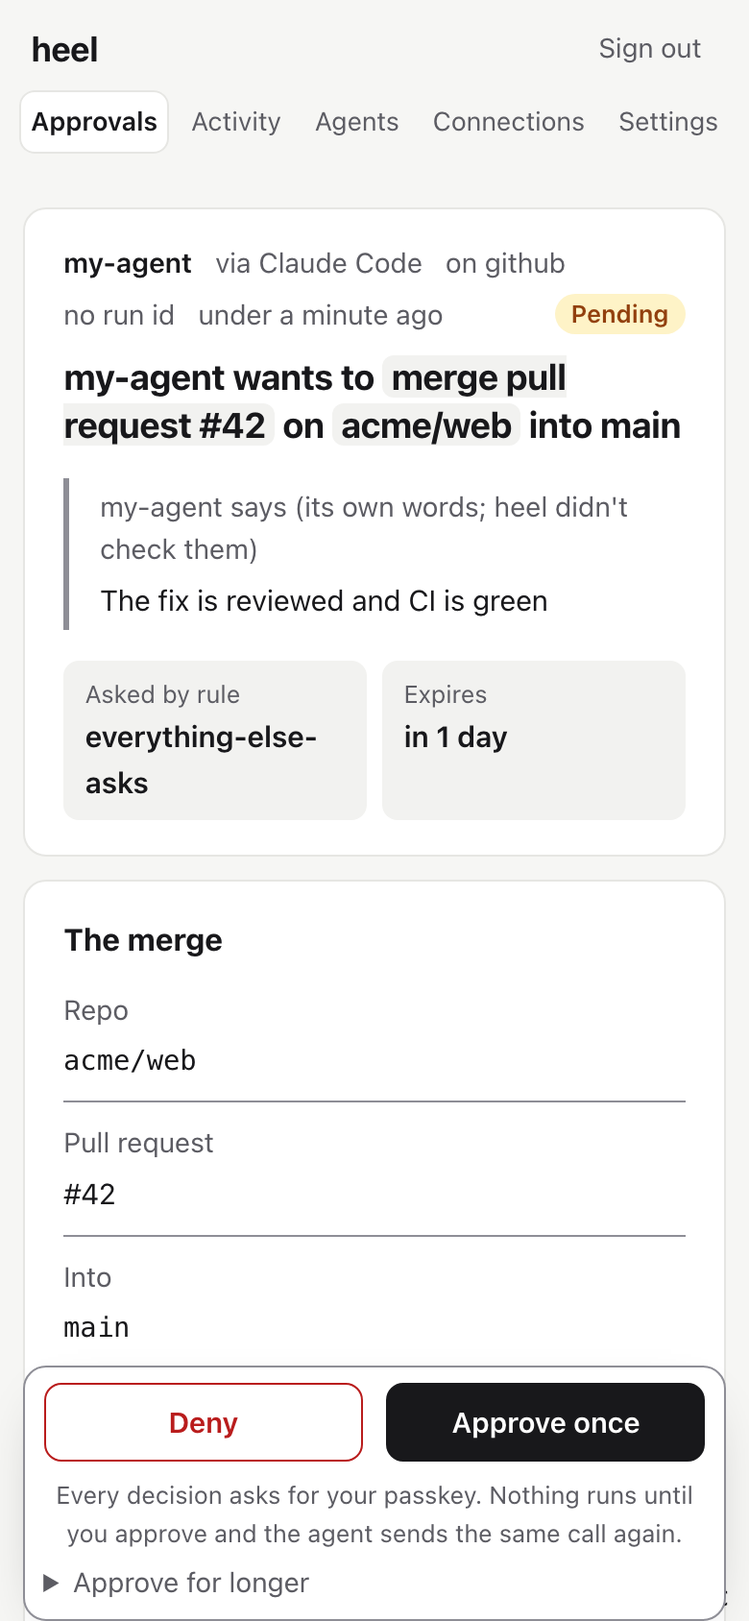
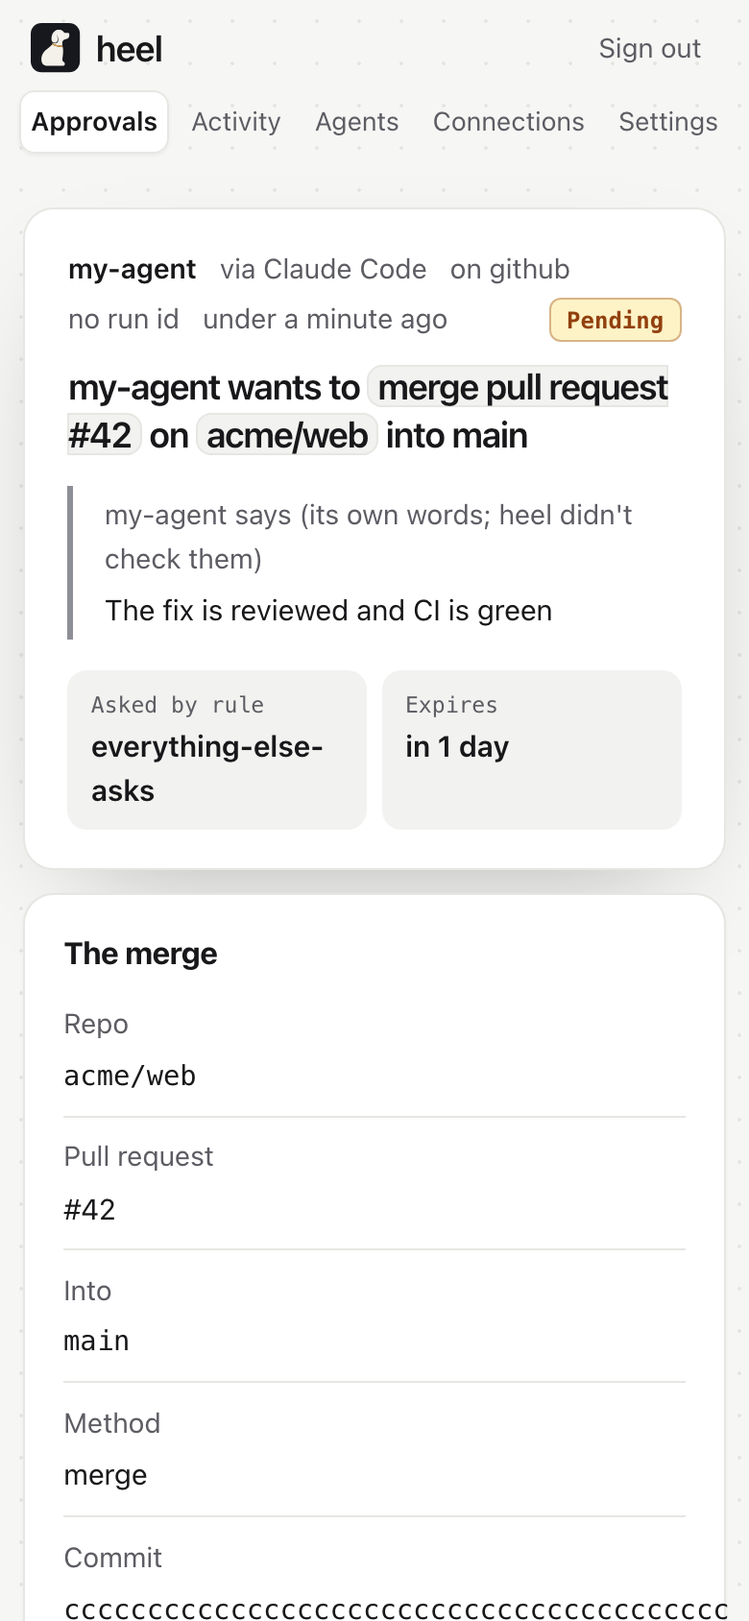
feat: heel's pages look like useheel.dev, and approve and deny never cover the page (#169)
* feat: heel's pages look like useheel.dev, and approve and deny never cover the page

Every page of the human plane takes the site's look: the dot grid behind
it, the logo beside the wordmark, pill buttons, status as tags in mono
with a tinted edge, softer cards and quieter dividers. Sign-in uses the
site's dog, written in the word heel, faint behind the wordmark.

The approve/deny bar was pinned to the bottom of the screen and sat on
top of the email or merge being decided. It's now part of the page,
right after what will run and before the details.

The docs screenshots are regenerated from the new pages, and the
README's approval image is two of them in phone frames, light and dark.

* docs: the README follows the reader's theme everywhere, and its phones look like phones

The video gets a dark version, switched with a picture element like the banner. The approval phones get a status bar, camera cutout and home bar, so the page sits inside the screen instead of under its corners, and the dark image shows heel's dark theme: docs:screenshots now also captures the two approval screens in dark.

diff --git a/src/web/ui/theme.ts b/src/web/ui/theme.ts
@@ -36,6 +36,8 @@ const LIGHT = {
   "add-bg": "#e3f4e7",
   "remove-bg": "#fbe5e3",
   focus: "#0b57d0",
+  /** The dot grid behind every page, as on useheel.dev. */
+  dot: "rgb(0 0 0 / .07)",
 } as const;
 
 /** Every theme defines every colour the stylesheet uses. */
@@ -66,6 +68,7 @@ const DARK: Palette = {
   "add-bg": "#13321c",
   "remove-bg": "#3d1714",
   focus: "#ffd166",
+  dot: "rgb(255 255 255 / .06)",
 };
 
 function variables(palette: Palette): string {
@@ -77,18 +80,19 @@ function variables(palette: Palette): string {
 const RULES = `
 *,*::before,*::after{box-sizing:border-box}
 html{color-scheme:light dark}
-body{margin:0;background:var(--page);color:var(--text);font:15px/1.55 Inter,ui-sans-serif,system-ui,-apple-system,"Segoe UI",Roboto,sans-serif;-webkit-font-smoothing:antialiased}
+body{margin:0;background-color:var(--page);background-image:radial-gradient(circle,var(--dot) 1px,transparent 1px);background-size:22px 22px;color:var(--text);font:15px/1.55 Inter,ui-sans-serif,system-ui,-apple-system,"Segoe UI",Roboto,sans-serif;-webkit-font-smoothing:antialiased}
 a{color:var(--link);text-underline-offset:.2em}
 :focus-visible{outline:3px solid var(--focus);outline-offset:2px}
 .skip{position:absolute;left:-9999px;top:0;padding:.5rem 1rem;background:var(--bg)}
 .skip:focus{left:1rem;top:1rem;z-index:10}
-.site{display:flex;flex-wrap:wrap;gap:.75rem 2rem;align-items:center;max-width:72rem;margin:0 auto;padding:1rem 1.5rem .25rem}
-.site .brand{font-weight:700;font-size:1.1rem;letter-spacing:-.01em;color:var(--text);text-decoration:none}
+.site{display:flex;flex-wrap:wrap;gap:.75rem 2rem;align-items:center;max-width:72rem;margin:0 auto;padding:.9rem 1.5rem}
+.site .brand{display:inline-flex;align-items:center;gap:.5rem;font-weight:600;font-size:1.15rem;letter-spacing:-.02em;color:var(--text);text-decoration:none}
+.site .brand svg{width:1.6rem;height:1.6rem;flex:none}
 .site nav{max-width:100%}
 .site nav ul{display:flex;flex-wrap:wrap;gap:.25rem 1rem;list-style:none;margin:0;padding:0}
 .site nav a{text-decoration:none;padding:.3rem .55rem;border-radius:8px;white-space:nowrap;display:inline-block;color:var(--muted);font-size:.93rem}
 .site nav a:hover{color:var(--text);background:var(--surface)}
-.site nav a[aria-current="page"]{color:var(--text);font-weight:600;background:var(--bg);box-shadow:inset 0 0 0 1px var(--line)}
+.site nav a[aria-current="page"]{color:var(--text);font-weight:600;background:var(--bg);box-shadow:inset 0 0 0 1px var(--line),0 1px 2px rgb(0 0 0 / .05)}
 .site .account{margin-left:auto;display:flex;align-items:center;gap:.75rem}
 .site .who{color:var(--muted);font-size:.88rem}
 .site .sign-out{font:inherit;font-size:.88rem;color:var(--muted);background:none;border:0;padding:.3rem .55rem;border-radius:8px;cursor:pointer}
@@ -98,25 +102,25 @@ a{color:var(--link);text-underline-offset:.2em}
 .subnav a{display:inline-block;padding:.3rem .7rem;border-radius:7px;color:var(--muted);text-decoration:none;font-size:.9rem;white-space:nowrap}
 .subnav a[aria-current="page"]{background:var(--bg);color:var(--text);font-weight:600;box-shadow:0 1px 2px rgb(0 0 0 / .08)}
 main{max-width:72rem;margin:0 auto;padding:1.5rem}
-h1{font-size:1.55rem;line-height:1.3;letter-spacing:-.015em;margin:0 0 .5rem}
-h2{font-size:1.2rem;margin:1.5rem 0 .5rem}
+h1{font-size:1.85rem;line-height:1.2;letter-spacing:-.04em;font-weight:600;margin:0 0 .5rem}
+h2{font-size:1.2rem;letter-spacing:-.02em;margin:1.5rem 0 .5rem}
 h3{font-size:1rem;margin:1rem 0 .5rem}
 p{margin:.5rem 0}
 .muted{color:var(--muted)}
 .banner{padding:.7rem 1.5rem;background:var(--banner-bg);color:var(--banner-text);font-weight:600;text-align:center}
-.notice{border:1px solid var(--line);padding:.75rem 1rem;margin:1rem 0;background:var(--bg);border-radius:10px}
+.notice{border:1px solid var(--line);padding:.75rem 1rem;margin:1rem 0;background:var(--bg);border-radius:14px}
 .notice[data-tone="error"]{background:var(--danger-bg);border-color:transparent}
 .notice[data-tone="warn"]{background:var(--warn-bg);border-color:transparent}
 .notice[data-tone="ok"]{background:var(--ok-bg);border-color:transparent}
 .notice[data-tone="info"]{background:var(--info-bg);border-color:transparent}
 .notice > :first-child{margin-top:0}
 .notice > :last-child{margin-bottom:0}
-.card{border:1px solid var(--line);border-radius:12px;padding:1.1rem 1.25rem;margin:1rem 0;background:var(--bg)}
-.badge{display:inline-block;padding:.05rem .55rem;border-radius:999px;font-size:.8rem;font-weight:600;white-space:nowrap;background:var(--surface)}
-.badge[data-tone="ok"]{color:var(--ok);background:var(--ok-bg)}
-.badge[data-tone="error"]{color:var(--danger);background:var(--danger-bg)}
-.badge[data-tone="warn"]{color:var(--warn);background:var(--warn-bg)}
-.badge[data-tone="info"]{color:var(--info);background:var(--info-bg)}
+.card{border:1px solid var(--line);border-radius:16px;padding:1.1rem 1.25rem;margin:1rem 0;background:var(--bg);box-shadow:0 1px 2px rgb(0 0 0 / .04)}
+.badge{display:inline-block;padding:.1rem .5rem;border-radius:6px;border:1px solid var(--line);font:600 .75rem/1.5 ui-monospace,"Geist Mono",SFMono-Regular,Menlo,Consolas,monospace;white-space:nowrap;background:var(--surface)}
+.badge[data-tone="ok"]{color:var(--ok);background:var(--ok-bg);border-color:color-mix(in srgb,var(--ok) 35%,transparent)}
+.badge[data-tone="error"]{color:var(--danger);background:var(--danger-bg);border-color:color-mix(in srgb,var(--danger) 35%,transparent)}
+.badge[data-tone="warn"]{color:var(--warn);background:var(--warn-bg);border-color:color-mix(in srgb,var(--warn) 35%,transparent)}
+.badge[data-tone="info"]{color:var(--info);background:var(--info-bg);border-color:color-mix(in srgb,var(--info) 35%,transparent)}
 .badge[data-tone="muted"]{color:var(--muted)}
 dl.facts{display:grid;grid-template-columns:minmax(8rem,max-content) 1fr;gap:.35rem 1.5rem;margin:0}
 dl.facts dt{color:var(--muted);font-weight:600}
@@ -127,21 +131,21 @@ figure.reason blockquote{margin:.25rem 0 0;overflow-wrap:anywhere}
 ul.hints{list-style:none;padding:0;margin:.5rem 0 0;display:grid;gap:.45rem}
 ul.hints li{display:flex;align-items:baseline;gap:.6rem}
 pre{overflow-x:auto;max-width:100%}
-code,pre,.mono{font-family:ui-monospace,SFMono-Regular,Menlo,Consolas,monospace;font-size:.9rem}
-pre.args,pre.body{margin:0;padding:1rem;background:var(--surface);border:1px solid var(--border);border-radius:4px;white-space:pre-wrap;overflow-wrap:anywhere;word-break:break-word}
-.table-scroll{overflow-x:auto;max-width:100%;border:1px solid var(--line);border-radius:12px;margin:.75rem 0;background:linear-gradient(to right,var(--bg) 30%,transparent) left/2rem 100% no-repeat local,linear-gradient(to left,var(--bg) 30%,transparent) right/2rem 100% no-repeat local,radial-gradient(farthest-side at 0 50%,rgb(0 0 0 / .18),transparent) left/.75rem 100% no-repeat scroll,radial-gradient(farthest-side at 100% 50%,rgb(0 0 0 / .18),transparent) right/.75rem 100% no-repeat scroll}
+code,pre,.mono{font-family:ui-monospace,"Geist Mono",SFMono-Regular,Menlo,Consolas,monospace;font-size:.9rem}
+pre.args,pre.body{margin:0;padding:1rem;background:var(--surface);border:1px solid var(--line);border-radius:10px;white-space:pre-wrap;overflow-wrap:anywhere;word-break:break-word}
+.table-scroll{overflow-x:auto;max-width:100%;border:1px solid var(--line);border-radius:14px;margin:.75rem 0;background:linear-gradient(to right,var(--bg) 30%,transparent) left/2rem 100% no-repeat local,linear-gradient(to left,var(--bg) 30%,transparent) right/2rem 100% no-repeat local,radial-gradient(farthest-side at 0 50%,rgb(0 0 0 / .18),transparent) left/.75rem 100% no-repeat scroll,radial-gradient(farthest-side at 100% 50%,rgb(0 0 0 / .18),transparent) right/.75rem 100% no-repeat scroll}
 table.data{width:100%;border-collapse:collapse;margin:0;background:var(--bg)}
 table.data caption{text-align:left;font-weight:600;padding:.6rem .85rem;color:var(--muted);font-size:.85rem;background:var(--bg)}
 table.data th,table.data td{text-align:left;vertical-align:top;padding:.6rem .85rem;border-bottom:1px solid var(--line);overflow-wrap:break-word}
 table.data tbody tr:last-child > *{border-bottom:0}
 table.data thead th{border-bottom:1px solid var(--line);color:var(--muted);font-size:.8rem;font-weight:600;letter-spacing:.02em;background:var(--surface)}
-.btn{font:inherit;font-size:.93rem;font-weight:600;white-space:nowrap;padding:.5rem 1rem;border-radius:9px;border:1px solid var(--accent);cursor:pointer;min-height:2.5rem}
+.btn{font:inherit;font-size:.93rem;font-weight:600;white-space:nowrap;padding:.5rem 1.15rem;border-radius:999px;border:1px solid var(--accent);cursor:pointer;min-height:2.5rem}
 .btn-primary{background:var(--accent);color:var(--accent-text)}
-.btn-secondary{background:var(--bg);color:var(--text);border-color:var(--border)}
+.btn-secondary{background:var(--bg);color:var(--text);border-color:var(--border);box-shadow:0 1px 2px rgb(0 0 0 / .06)}
 .btn-danger{background:var(--bg);border-color:var(--danger);color:var(--danger)}
 .btn:disabled{cursor:not-allowed;opacity:.55}
 a.btn{display:inline-block;text-decoration:none}
-form.filters{display:flex;flex-wrap:wrap;gap:.5rem .75rem;align-items:center;margin:1rem 0;padding:.75rem;background:var(--bg);border:1px solid var(--line);border-radius:12px}
+form.filters{display:flex;flex-wrap:wrap;gap:.5rem .75rem;align-items:center;margin:1rem 0;padding:.75rem;background:var(--bg);border:1px solid var(--line);border-radius:16px}
 form.filters label{color:var(--muted);font-size:.88rem}
 .actions{display:flex;flex-wrap:wrap;gap:.75rem;align-items:center;margin:1rem 0}
 fieldset{border:1px solid var(--line);border-radius:10px;padding:.75rem 1rem;margin:1rem 0}
@@ -156,47 +160,45 @@ textarea{width:100%;min-height:5rem}
 .paste-form .btn{justify-self:start}
 .steps{padding-left:1.25rem}
 .steps > li{margin:0 0 1.25rem}
-.diff{margin:0;padding:0;list-style:none;border:1px solid var(--border);border-radius:4px;overflow:hidden}
+.diff{margin:0;padding:0;list-style:none;border:1px solid var(--line);border-radius:10px;overflow:hidden}
 .diff li{padding:0 .75rem;white-space:pre-wrap;overflow-wrap:anywhere;font-family:ui-monospace,SFMono-Regular,Menlo,Consolas,monospace;font-size:.9rem}
 .diff li[data-op="add"]{background:var(--add-bg)}
 .diff li[data-op="remove"]{background:var(--remove-bg)}
 .diff .sign{display:inline-block;width:1.25rem;font-weight:700}
-body:has(.ap){background:var(--page)}
 .ap{max-width:44rem;margin:0 auto}
-.ap .card{background:var(--bg);border-radius:12px;margin:.75rem 0}
-.ap-head{padding:1.1rem 1.25rem}
-.ap-meta{display:flex;flex-wrap:wrap;align-items:center;gap:.25rem .75rem;font-size:.9rem}
+.ap .card{background:var(--bg);border-radius:16px;margin:.75rem 0}
+.ap-head{padding:1.25rem 1.4rem;box-shadow:0 24px 60px -32px rgb(0 0 0 / .35)}
+.ap-meta{display:flex;flex-wrap:wrap;align-items:center;gap:.25rem .75rem;font-size:.9rem;color:var(--muted)}
 .ap-meta .badge{margin-left:auto}
-.ap-agent{font-weight:600}
-.ap-title{font-size:1.35rem;line-height:1.35;margin:.6rem 0 0;letter-spacing:-.01em;overflow-wrap:anywhere}
-.ap-title mark{background:var(--surface);color:inherit;border-radius:6px;padding:0 .3rem}
+.ap-agent{font-weight:600;color:var(--text)}
+.ap-title{font-size:1.45rem;line-height:1.35;margin:.7rem 0 0;letter-spacing:-.03em;font-weight:600;overflow-wrap:anywhere}
+.ap-title mark{background:var(--surface);color:inherit;border-radius:8px;padding:0 .35rem;box-shadow:inset 0 0 0 1px var(--line)}
 .ap .reason{margin:.9rem 0 0}
 .ap-facts{display:grid;grid-template-columns:repeat(auto-fit,minmax(9rem,1fr));gap:.5rem;list-style:none;margin:1rem 0 0;padding:0}
-.ap-fact{background:var(--surface);border-radius:8px;padding:.5rem .7rem;display:flex;flex-direction:column;min-width:0}
-.ap-fact span{color:var(--muted);font-size:.8rem}
+.ap-fact{background:var(--surface);border-radius:10px;padding:.55rem .75rem;display:flex;flex-direction:column;min-width:0}
+.ap-fact span{color:var(--muted);font:.72rem/1.6 ui-monospace,"Geist Mono",SFMono-Regular,Menlo,Consolas,monospace}
 .ap-fact strong{font-weight:600;font-size:.95rem;overflow-wrap:anywhere}
 .ap-card-head{display:flex;justify-content:space-between;align-items:baseline;gap:1rem;margin-bottom:.25rem}
 .ap-card-head h2{font-size:1rem;margin:0}
-.ap-card-head .muted{font-size:.85rem}
-.ap-row{display:grid;grid-template-columns:minmax(5.5rem,max-content) minmax(0,1fr);gap:.75rem;padding:.6rem 0;border-top:1px solid var(--border);align-items:start}
+.ap-card-head .muted{font:.75rem ui-monospace,"Geist Mono",SFMono-Regular,Menlo,Consolas,monospace}
+.ap-row{display:grid;grid-template-columns:minmax(5.5rem,max-content) minmax(0,1fr);gap:.75rem;padding:.6rem 0;border-top:1px solid var(--line);align-items:start}
 .ap-card-head + .ap-row{border-top:0}
 .ap-key{color:var(--muted);font-size:.9rem;overflow-wrap:anywhere}
 .ap-row pre.body{max-height:16rem;overflow:auto}
 .ap-domains,.ap-addresses{list-style:none;margin:0;padding:0;display:grid;gap:.35rem}
 .ap-addresses{margin-top:.4rem;font-size:.9rem}
-.ap-chip{display:inline-block;background:var(--surface);border-radius:6px;padding:0 .45rem;font-family:ui-monospace,SFMono-Regular,Menlo,Consolas,monospace;font-size:.9rem;overflow-wrap:anywhere}
+.ap-chip{display:inline-block;background:var(--surface);border-radius:6px;padding:0 .45rem;font-family:ui-monospace,"Geist Mono",SFMono-Regular,Menlo,Consolas,monospace;font-size:.9rem;overflow-wrap:anywhere}
 .ap-chip.is-outside{box-shadow:inset 0 0 0 1px var(--warn)}
 .ap-outside{color:var(--warn);font-size:.8rem;font-weight:600}
 .ap-fold summary,.ap-details summary,.ap-more summary{cursor:pointer}
-.ap-details details + details{border-top:1px solid var(--border);margin-top:.75rem;padding-top:.75rem}
+.ap-details details + details{border-top:1px solid var(--line);margin-top:.75rem;padding-top:.75rem}
 .ap-details summary{font-weight:600}
 .ap-details dl.facts{margin-top:.75rem}
 .ap-details pre.args{margin-top:.5rem}
-.ap-decide{position:sticky;bottom:0;margin:.75rem 0 1rem;padding:.75rem;background:var(--bg);border:1px solid var(--border);border-radius:12px;box-shadow:0 10px 30px -18px rgb(0 0 0 / .45)}
-.ap-decide:has(.ap-more[open]){position:static}
+.ap-decide{margin:.75rem 0;padding:.75rem;background:var(--bg);border:1px solid var(--line);border-radius:16px;box-shadow:0 1px 2px rgb(0 0 0 / .04)}
 .ap-bar{display:flex;flex-wrap:wrap;align-items:center;gap:.5rem .75rem}
 .ap-bar [data-heel-ceremony="deny"]{order:-1;background:transparent;color:var(--danger)}
-.ap .btn{border-radius:9px}
+.ap .btn{border-radius:999px}
 .ap-bar [data-heel-ceremony="approve-once"]{order:2}
 .ap-note{flex:1;margin:0;color:var(--muted);font-size:.85rem;text-align:center;min-width:10rem}
 .ap-more{margin-top:.5rem}
@@ -228,8 +230,8 @@ body:has(.ap){background:var(--page)}
 .req-title{font-size:1.1rem;line-height:1.4;margin:.5rem 0 0;font-weight:600;overflow-wrap:anywhere}
 .req-title a{color:var(--text);text-decoration:none}
 .req-title a:hover{text-decoration:underline}
-.req-title mark{background:var(--surface);color:inherit;border-radius:6px;padding:0 .3rem}
-.req[data-status="pending"]{border-color:var(--border)}
+.req-title mark{background:var(--surface);color:inherit;border-radius:8px;padding:0 .35rem;box-shadow:inset 0 0 0 1px var(--line)}
+.req[data-status="pending"]{border-color:var(--line)}
 .req-reason{margin:.5rem 0 0;padding-left:.75rem;border-left:2px solid var(--line)}
 .req-foot{margin:.6rem 0 0;font-size:.85rem}
 .req-count{margin:0}
@@ -271,13 +273,10 @@ body:has(.ap){background:var(--page)}
 @media (max-width:22rem){.site nav ul{margin:0 -.25rem}.site nav a{font-size:.78rem;padding:.35rem .25rem}}
 .story{border-top:4px solid var(--border);margin-top:2rem;padding-top:1rem}
 .visually-hidden{position:absolute;width:1px;height:1px;margin:-1px;padding:0;overflow:hidden;clip:rect(0 0 0 0);white-space:nowrap;border:0}
-body:has(.auth){background-color:var(--page);background-image:radial-gradient(circle,rgb(0 0 0 / .07) 1px,transparent 1px);background-size:22px 22px}
-:root[data-theme="dark"] body:has(.auth){background-image:radial-gradient(circle,rgb(255 255 255 / .06) 1px,transparent 1px)}
-@media (prefers-color-scheme: dark){:root:not([data-theme="light"]) body:has(.auth){background-image:radial-gradient(circle,rgb(255 255 255 / .06) 1px,transparent 1px)}}
 main:has(.auth){max-width:none;padding:0}
-.auth{position:relative;max-width:1100px;margin:0 auto;padding:4rem 1.25rem 3rem;display:flex;flex-direction:column;align-items:center;text-align:center;min-height:100vh}
-.auth-dog{margin:0;text-align:left;font-size:.75rem;line-height:1.25;color:var(--muted);white-space:pre;overflow:visible;background:none;border:0;padding:0}
-.auth-word{margin:1rem 0 0;font-size:clamp(3.5rem,11vw,5.5rem);line-height:1;font-weight:600;letter-spacing:-.06em}
+.auth{position:relative;isolation:isolate;max-width:1100px;margin:0 auto;padding:6rem 1.25rem 3rem;display:flex;flex-direction:column;align-items:center;text-align:center;min-height:100vh}
+.auth-dog{position:absolute;top:2rem;left:50%;z-index:-1;transform:translateX(calc(-50% - 2.6ch + 2px));margin:0;text-align:left;font-size:13px;line-height:1;color:color-mix(in srgb,var(--text) 7%,transparent);white-space:pre;overflow:visible;background:none;border:0;padding:0;pointer-events:none;user-select:none;-webkit-mask-image:linear-gradient(to bottom,#000 40%,transparent 75%);mask-image:linear-gradient(to bottom,#000 40%,transparent 75%)}
+.auth-word{margin:0;font-size:clamp(3.5rem,11vw,5.5rem);line-height:1;font-weight:600;letter-spacing:-.06em}
 .auth-tag{margin:.6rem 0 2rem;font-size:1.1rem;color:var(--muted)}
 .auth-foot{margin:1.25rem 0 0;font-size:.78rem;color:var(--muted)}
 .sticker{position:absolute;display:none;border:1px solid;border-radius:6px;padding:.2rem .6rem;font:500 .75rem ui-monospace,SFMono-Regular,Menlo,monospace;box-shadow:0 1px 2px rgb(0 0 0 / .06)}
@@ -290,7 +289,7 @@ main:has(.auth){max-width:none;padding:0}
 .signin .actions{margin:1.25rem 0}
 .signin .actions .btn{width:100%;justify-content:center;text-align:center;min-height:2.85rem;border-radius:999px}
 .signin > p.muted{font-size:.88rem}
-@media (max-width:36rem){.auth{padding-top:2.5rem}.signin{padding:1.4rem 1.25rem;border-radius:14px}}
+@media (max-width:36rem){.auth{padding-top:4.5rem}.auth-dog{font-size:9px}.signin{padding:1.4rem 1.25rem;border-radius:14px}}
 [role="status"]:empty{display:none}
 #heel-ceremony-status:not(:empty){position:fixed;left:1rem;right:1rem;bottom:1rem;max-width:56rem;margin:0 auto;z-index:20;padding:.75rem 1rem;background:var(--bg);color:var(--text);border:1px solid var(--line);border-radius:12px;box-shadow:0 10px 30px -12px rgb(0 0 0 / .35);overflow-wrap:anywhere}
 body:has(#heel-ceremony-status:not(:empty)) main{padding-bottom:10rem}

diff --git a/src/web/ui/logo.ts b/src/web/ui/logo.ts
@@ -1,0 +1,5 @@
+/**
+ * heel's logo, the dog sitting at heel (assets/logo/heel-icon.svg), inlined so
+ * the header needs no extra request. Decorative: the link beside it says heel.
+ */
+export const LOGO_SVG = `<svg xmlns="http://www.w3.org/2000/svg" viewBox="0 0 2048 2048" aria-hidden="true" focusable="false"><rect width="2048" height="2048" rx="448" fill="#16181D"/><g transform="translate(184 184) scale(0.82)"><g transform="translate(0 2048) scale(0.1 -0.1)"><path fill="#F4F1EA" d="M11715 19330 c-49 -4 -117 -13 -150 -19 -33 -6 -94 -15 -135 -21 -113 -16 -289 -59 -465 -115 -27 -9 -75 -23 -105 -31 -30 -9 -60 -20 -66 -25 -6 -5 -36 -18 -66 -28 -30 -10 -63 -23 -74 -29 -10 -6 -59 -30 -107 -54 -48 -24 -105 -52 -125 -63 -122 -66 -184 -103 -238 -139 -16 -11 -53 -36 -83 -55 -207 -139 -307 -224 -522 -441 -108 -109 -331 -366 -379 -436 -131 -190 -220 -339 -324 -544 -20 -41 -44 -86 -52 -100 -7 -14 -27 -56 -44 -95 -17 -38 -38 -83 -45 -100 -30 -64 -110 -290 -150 -420 -15 -49 -36 -115 -46 -145 -9 -30 -20 -71 -24 -90 -3 -19 -15 -62 -25 -95 -10 -33 -22 -80 -26 -105 -3 -25 -13 -63 -21 -85 -8 -22 -21 -86 -29 -143 -8 -56 -19 -124 -25 -150 -6 -26 -19 -121 -30 -212 -10 -91 -24 -210 -31 -265 -16 -130 -16 -839 0 -950 47 -331 52 -356 122 -565 94 -283 172 -424 327 -586 139 -145 393 -317 538 -364 22 -7 45 -16 51 -21 5 -5 37 -15 70 -22 32 -8 84 -22 114 -30 81 -24 326 -49 475 -50 230 -1 493 58 650 145 11 7 34 18 50 26 17 9 42 25 57 36 14 12 46 35 69 51 233 164 438 469 515 765 8 30 21 79 30 109 40 135 70 585 55 811 -24 353 -41 537 -55 595 -8 33 -17 92 -21 130 -4 39 -18 122 -31 185 -13 63 -24 127 -24 141 0 14 -9 61 -19 105 -10 43 -33 142 -51 219 -71 309 -91 391 -101 415 -10 23 -35 144 -45 215 -4 27 -3 28 8 11 51 -73 68 -103 68 -117 0 -9 11 -36 23 -60 13 -24 27 -57 31 -74 4 -16 14 -43 21 -60 16 -35 91 -251 141 -410 20 -60 44 -133 55 -161 11 -28 26 -75 34 -105 8 -30 26 -92 41 -139 15 -47 33 -112 41 -145 91 -373 102 -423 114 -510 5 -44 16 -116 24 -160 32 -184 46 -676 25 -885 -24 -235 -125 -546 -243 -740 -49 -82 -123 -189 -164 -237 -68 -80 -270 -243 -348 -283 -22 -11 -47 -24 -55 -30 -26 -17 -146 -70 -159 -70 -7 0 -26 -7 -43 -16 -80 -42 -296 -86 -488 -100 -101 -7 -431 20 -507 41 -29 9 -76 20 -105 25 -29 6 -75 19 -103 30 -27 10 -70 25 -95 34 -179 59 -317 130 -444 228 -62 49 -68 44 -96 -80 -12 -53 -28 -118 -36 -143 -23 -71 -4 -98 116 -169 19 -11 55 -34 80 -50 25 -15 98 -56 163 -89 65 -34 153 -81 195 -105 86 -48 225 -116 352 -171 47 -20 103 -46 126 -56 22 -10 44 -19 48 -19 4 0 40 -14 79 -30 40 -17 93 -40 120 -50 26 -11 68 -29 95 -40 215 -88 740 -247 1112 -337 225 -54 527 -109 723 -133 48 -6 110 -15 137 -20 156 -30 747 -65 942 -57 580 25 743 40 759 70 11 20 6 78 -17 191 -8 38 -21 139 -29 225 -8 86 -20 183 -25 216 -20 121 -32 532 -22 725 10 173 52 482 71 519 5 9 14 41 21 71 6 30 25 93 41 140 126 372 312 616 619 814 25 16 56 37 70 46 32 21 225 115 282 136 205 77 500 156 713 189 54 9 231 51 335 80 47 13 94 26 105 29 224 61 514 224 689 388 135 126 233 252 328 423 37 67 138 276 138 287 0 6 9 31 20 54 58 120 121 403 146 664 55 573 -83 1004 -367 1148 -135 68 -215 80 -649 92 -341 10 -777 31 -1020 50 -378 29 -577 148 -860 511 -108 138 -353 383 -475 473 -131 96 -218 156 -230 156 -5 0 -16 6 -24 14 -9 8 -68 40 -132 73 -331 166 -622 263 -929 308 -58 9 -123 20 -145 26 -50 13 -706 20 -830 9z"/><path fill="#F4F1EA" d="M8590 11888 c-16 -22 -30 -46 -30 -52 -1 -43 -297 -428 -465 -605 -235 -247 -337 -343 -640 -601 -205 -175 -681 -542 -1034 -799 -217 -158 -719 -566 -911 -740 -185 -168 -212 -194 -343 -321 -223 -216 -666 -714 -782 -879 -16 -23 -48 -66 -71 -94 -22 -29 -49 -66 -60 -84 -17 -29 -172 -262 -214 -323 -15 -22 -74 -124 -120 -208 -8 -15 -25 -43 -36 -62 -50 -82 -146 -268 -198 -385 -15 -33 -36 -77 -47 -97 -10 -20 -19 -43 -19 -49 0 -7 -9 -31 -19 -53 -34 -72 -117 -283 -146 -371 -70 -212 -123 -410 -170 -630 -9 -44 -25 -121 -36 -170 -11 -50 -24 -131 -29 -180 -6 -50 -17 -140 -25 -201 -46 -357 -42 -917 10 -1349 61 -506 191 -933 402 -1326 10 -19 46 -72 78 -118 33 -46 67 -93 75 -105 38 -56 195 -237 251 -292 105 -100 264 -225 366 -290 149 -93 496 -264 538 -264 9 0 30 -8 48 -17 32 -17 90 -35 252 -80 204 -56 395 -89 660 -113 210 -18 342 -19 2925 -24 1488 -3 3277 -8 3975 -12 1302 -7 1388 -5 1555 31 106 23 260 74 292 96 14 11 29 19 32 19 18 0 140 93 198 151 166 165 247 383 248 664 0 251 -61 442 -221 681 -80 121 -251 287 -403 389 -16 11 -59 40 -96 65 -116 77 -123 83 -196 142 -109 89 -204 217 -247 333 -90 240 -117 565 -78 910 5 39 16 144 25 235 9 91 24 212 32 270 8 58 21 164 29 235 9 72 20 155 25 185 5 30 16 127 25 214 9 88 20 179 26 203 5 24 16 106 24 181 8 75 21 184 29 242 8 58 18 148 21 200 4 52 13 137 21 188 8 52 21 184 29 295 8 111 19 238 25 282 14 116 28 387 41 810 16 493 -7 1316 -41 1513 -5 30 -17 129 -25 220 -9 92 -20 186 -25 208 -5 23 -17 102 -25 175 -9 74 -20 150 -25 169 -5 19 -16 87 -24 150 -28 217 -49 271 -99 255 -12 -4 -65 -10 -117 -15 -52 -5 -151 -17 -220 -27 -200 -29 -987 -26 -1265 5 -537 60 -1037 154 -1445 272 -58 16 -127 35 -155 41 -27 6 -84 22 -125 35 -41 13 -124 40 -185 59 -60 18 -141 45 -180 59 -65 23 -98 35 -255 101 -33 14 -86 36 -117 49 -32 13 -92 38 -133 56 -41 17 -89 36 -106 41 -30 9 -492 240 -594 297 -30 17 -73 40 -95 51 -22 12 -78 45 -125 75 -47 31 -98 63 -115 72 -16 9 -36 25 -43 35 -21 30 -49 22 -82 -23z"/><path fill="#F2A33A" d="M8792 12362 c-18 -43 -32 -82 -32 -87 0 -5 -9 -27 -19 -49 -30 -65 -78 -179 -86 -206 -4 -14 -14 -34 -21 -45 -18 -25 -18 -35 -1 -35 8 0 22 -9 33 -21 21 -24 108 -81 211 -141 21 -12 56 -32 78 -45 22 -13 58 -33 80 -44 22 -12 66 -35 98 -53 151 -82 508 -256 525 -256 6 0 32 -11 58 -25 26 -14 52 -25 58 -25 6 0 33 -11 60 -25 27 -14 56 -25 64 -25 7 0 26 -7 40 -15 27 -14 115 -51 207 -85 28 -10 82 -31 120 -45 83 -31 207 -71 286 -91 31 -7 76 -23 100 -34 24 -11 53 -20 64 -20 11 0 56 -11 100 -24 73 -22 184 -52 340 -91 104 -26 287 -66 375 -81 47 -8 132 -23 190 -34 150 -27 362 -57 535 -75 83 -9 193 -21 245 -27 57 -7 265 -12 525 -12 388 -1 446 1 590 21 88 12 192 25 230 28 126 12 145 20 145 62 0 35 -33 223 -72 401 -18 87 -21 93 -41 88 -12 -4 -137 -14 -277 -23 -474 -30 -1088 -18 -1370 27 -63 10 -142 21 -175 25 -171 16 -678 116 -840 165 -33 10 -76 21 -95 25 -19 3 -73 17 -120 31 -47 14 -125 36 -175 51 -49 14 -144 43 -210 65 -66 21 -142 45 -170 53 -61 16 -181 60 -215 79 -14 8 -41 19 -60 24 -19 6 -66 24 -105 40 -186 79 -222 94 -248 102 -15 5 -43 18 -61 29 -18 12 -39 21 -46 21 -12 0 -195 90 -305 149 -27 15 -108 58 -180 95 -71 37 -174 96 -228 129 -54 34 -107 67 -119 73 -11 7 -25 17 -31 23 -18 18 -22 14 -55 -67z"/></g></g></svg>`;

diff --git a/src/web/ui/layout.ts b/src/web/ui/layout.ts
@@ -2,6 +2,7 @@ import type { PauseScope } from "../../core/call.ts";
 import { CEREMONY_SCRIPT } from "./ceremony.ts";
 import { formatPauseScope, formatUtc } from "./format.ts";
 import { type Child, type Html, html, trusted } from "./html.ts";
+import { LOGO_SVG } from "./logo.ts";
 import { STYLESHEET } from "./theme.ts";
 
 /** The signed-in person, shown in the header. Sign-in screens have none. */
@@ -130,7 +131,7 @@ function header(viewer: Viewer, current: NavId | undefined): Html {
     </li>`;
   });
   return html`<header class="site">
-    <a class="brand" href="/approvals">heel</a>
+    <a class="brand" href="/approvals">${trusted(LOGO_SVG)}heel</a>
     <nav aria-label="Main"><ul>${links}</ul></nav>
     <div class="account">
       <span class="who">${viewer.name} · ${viewer.role}</span>
@@ -157,12 +158,41 @@ function sectionTabs(current: NavId | undefined): Html | "" {
   </ul></nav>`;
 }
 
-/** A dog sitting at heel: the same drawing as useheel.dev's home page. */
-const DOG = String.raw`   / \__
-  (    @\___
-  /         O
- /   (_____/
-/_____/   U`;
+/** heel's logo dog written in the word heel: the same drawing as behind useheel.dev's wordmark. */
+const DOG = `                          :+heelheelh*-
+                       .+eelheelheelheel+
+                      +heelheelheelheelhee=.
+                     lheelheelheelheelheelheelheelh-
+                    eelheelheelheelheelheelheelheelh
+                   =eelheelhe*elheelheelheelheelheel
+                   heelheelhe**elheelheelheelheelhe=
+                   elheelheelh:eelheelheelheelheel=
+                  .heelheelhee:*lheelheelheelhe+-
+                   elheelheelh.=eelheelhe+:
+                   -elheelheel heelheelh
+                    :*eelhee= +lheelhee.
+                     *==--::=lheelheelh
+                    +eelheelheelheelhee
+                  :lheel**heelheelheelh.
+                .*eelheelheelhe*******e:
+              -lheelheelheelheelheelheel
+           .+heelheelheelheelheelheelhee
+         -lheelheelheelheelheelheelheelh:
+       =eelheelheelheelheelheelheelheelh-
+     -eelheelheelheelheelheelheelheelhee=
+    lheelheelheelheelheelheelheelheelhee-
+  :lheelheelheelheelheelheelheelheelheel:
+ .heelheelheelheelheelheelheelheelheelhe
+ elheelheelheelheelheelheelheelheelheelh
++eelheelheelheelheelheelheelheelheelhee*
+lheelheelheelheelheelheelheelheelheelhe-
+elheelheelheelheelheelheelheelheelheelh.
+eelheelheelheelheelheelheelheelheelheel
+heelheelheelheelheelheelheelheelheelhee*
+:lheelheelheelheelheelheelheelheelheelhee*.
+ =lheelheelheelheelheelheelheelheelheelheel-
+  .*heelheelheelheelheelheelheelheelheelhee*
+     -*lheelheelheelheelheelheelheelheelhe*`;
 
 /**
  * Sign-in, enrollment and consent: heel's brand as on useheel.dev, the dog,
@@ -173,7 +203,7 @@ function authShell(body: Html): Html {
     <span class="sticker sticker-allow" aria-hidden="true">allow</span>
     <span class="sticker sticker-deny" aria-hidden="true">deny</span>
     <span class="sticker sticker-ask" aria-hidden="true">ask</span>
-    <pre class="auth-dog" aria-label="a dog sitting at heel">${DOG}</pre>
+    <pre class="auth-dog" aria-hidden="true">${DOG}</pre>
     <p class="auth-word">heel</p>
     <p class="auth-tag">access control for your ai agents</p>
     ${body}

diff --git a/e2e/docs/screenshots.test.ts b/e2e/docs/screenshots.test.ts
@@ -169,10 +169,16 @@ async function setUp() {
  * One screen as a person sees it: a phone shows the first screenful, with
  * the decision bar where it sits; a laptop shows the whole page.
  */
-async function shoot(page: Page, name: string): Promise<void> {
+async function shoot(page: Page, name: string, { dark = false } = {}): Promise<void> {
   await page.waitForLoadState("networkidle");
   const phone = (page.viewportSize()?.width ?? 0) < 600;
   await page.screenshot({ path: join(OUT, `${name}.png`), fullPage: !phone });
+  // The README's phones follow the reader's theme, so these screens come in dark too.
+  if (dark) {
+    await page.emulateMedia({ colorScheme: "dark" });
+    await page.screenshot({ path: join(OUT, `${name}-dark.png`), fullPage: !phone });
+    await page.emulateMedia({ colorScheme: "light" });
+  }
 }
 
 it("captures the docs screenshots", async () => {
@@ -243,9 +249,9 @@ it("captures the docs screenshots", async () => {
     await page.goto(`${origin}/approvals`);
     await shoot(page, "approvals");
     await page.goto(`${origin}/approvals/${send.approvalId}`);
-    await shoot(page, "approval-email");
+    await shoot(page, "approval-email", { dark: true });
     await page.goto(`${origin}/approvals/${merge.approvalId}`);
-    await shoot(page, "approval-merge");
+    await shoot(page, "approval-merge", { dark: true });
     await page.getByRole("button", { name: "Approve once" }).click();
     await page.waitForLoadState("networkidle");
     await page.reload();

diff --git a/test/web/phone-layout.test.ts b/test/web/phone-layout.test.ts
@@ -32,11 +32,11 @@ describe("pages at phone width", () => {
     }
   });
 
-  it("wraps the navigation, scrolls preformatted text, and lets an open decision bar scroll away", () => {
+  it("wraps the navigation, scrolls preformatted text, and keeps the decision bar in the page, never over it", () => {
     expect(STYLESHEET).toContain(".site nav ul{display:flex;flex-wrap:wrap;");
     expect(STYLESHEET).not.toMatch(/\.site nav\{[^}]*overflow-x/);
     expect(STYLESHEET).toContain("pre{overflow-x:auto;max-width:100%}");
-    expect(STYLESHEET).toContain(".ap-decide:has(.ap-more[open]){position:static}");
+    expect(STYLESHEET).not.toMatch(/\.ap-decide\{[^}]*position:(sticky|fixed)/);
   });
 });
 

diff --git a/src/web/ui/approval-request.ts b/src/web/ui/approval-request.ts
@@ -625,6 +625,7 @@ export function approvalRequest(props: ApprovalRequestProps): Html {
     ${statusNotice(request, props.now)}
     ${view}
     ${hintsView(request)}
+    ${decisionControls(request, props.pause, props.onDecide)}
     <section class="card ap-card ap-details" aria-label="Details">
       ${fold(
         folds,
@@ -670,6 +671,5 @@ export function approvalRequest(props: ApprovalRequestProps): Html {
         "",
       )}
     </section>
-    ${decisionControls(request, props.pause, props.onDecide)}
   </article>`;
 }

diff --git a/README.md b/README.md
@@ -17,7 +17,12 @@
 
 heel sits between an agent and everything it touches (MCP servers, HTTP APIs and CLIs). It holds the credentials and checks every call against rules on the call's actual arguments: who an email goes to, which account it comes from, which repo, how many messages this run has deleted. It also hides what an agent shouldn't read. Calls that need a person go to the owner's phone, outside the agent's session. One switch pauses any agent.
 
-[![heel checking three calls against what you asked: reading runs, a reply asks you, deleting 500 emails is blocked](assets/heel.gif)](assets/heel.mp4)
+<a href="assets/heel.mp4">
+  <picture>
+    <source media="(prefers-color-scheme: dark)" srcset="assets/heel-dark.gif">
+    <img src="assets/heel.gif" alt="heel checking three calls against what you asked: reading runs, a reply asks you, deleting 500 emails is blocked" width="100%">
+  </picture>
+</a>
 
 ## Get started
 
@@ -33,7 +38,12 @@ Then create your passkey, connect GitHub and point your agent at heel: the **[Qu
 
 When a rule says `ask`, you see exactly what the call will do, in plain words, and decide with your passkey, on your phone if you like:
 
-<p align="center"><img src="docs/images/approval-email.png" alt="An email waiting for approval on a phone" width="320"></p>
+<p align="center">
+  <picture>
+    <source media="(prefers-color-scheme: dark)" srcset="assets/readme/approvals-dark.png">
+    <img src="assets/readme/approvals-light.png" alt="Two approval pages on a phone: an email to someone outside the company, and a merge into main, each waiting for you" width="100%">
+  </picture>
+</p>
 
 ## What a rule looks like
 
